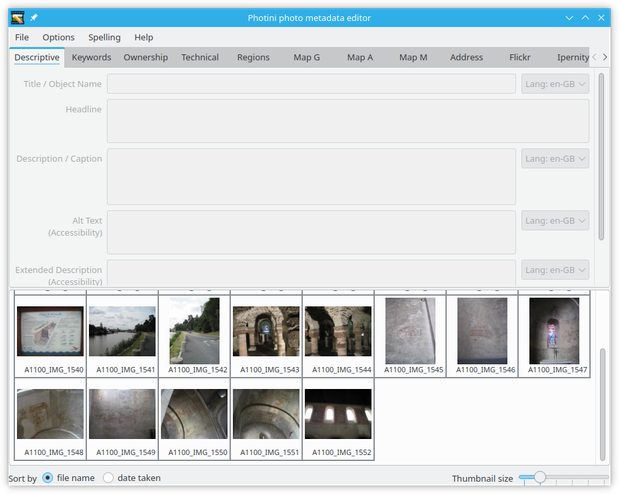
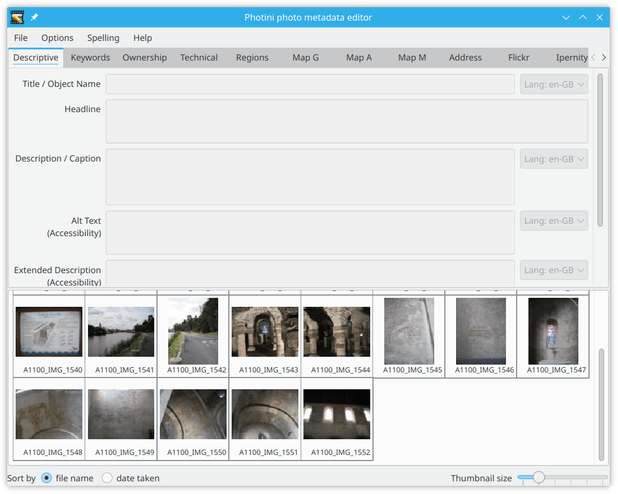
Updated screen shots and documentation

diff --git a/src/doc/manual/descriptive_metadata.rst b/src/doc/manual/descriptive_metadata.rst
@@ -9,7 +9,7 @@ The ``Descriptive metadata`` tab (keyboard shortcut ``Alt+D``) allows you to edi
 
 .. image:: ../images/screenshot_020.png
 
-The data form is disabled until you select one or more images to edit.
+The data form is mostly disabled until you select one or more images to edit.
 
 .. image:: ../images/screenshot_021.png
 
@@ -94,27 +94,30 @@ This allows translations into alternative languages to be stored along with the 
 .. image:: ../images/screenshot_032.png
 
 Photini has a language drop down selector next to each ``Lang Alt`` data field.
-If the current text is in an unspecified default language the selector shows ``Language``, otherwise it shows ``Lang:`` and the current language.
-If the field is empty the current language is set to your computer's default locale.
-You can add an alternative language by clicking on the drop down and selecting ``<new>``.
-
-.. image:: ../images/screenshot_033.png
-
-If there is already some text in an unspecified default language you will be asked to say what that language is.
+If the current text is in an unspecified language the selector shows ``Language``, otherwise it shows ``Lang:`` and the current language.
 Languages are specified with an RFC3066_ code.
-This usually starts with a two-letter language code, e.g. ``en`` for English, and may be followed by a hyphen and a two-letter country code, e.g. ``en-GB`` for English as spoken in Great Britain.
+This usually starts with a two-letter language code, e.g. ``en`` for English, and may be followed by a hyphen and a two-letter country code, e.g. ``en-GB`` for English as used in Great Britain.
+You can add another language by clicking on the drop down and selecting ``<new>``.
 
 .. image:: ../images/screenshot_034.png
 
-Next you can set the language to be added, e.g. ``fr-FR`` for French as spoken in France.
+Next you can set the language to be added, e.g. ``fr-FR`` for French as used in France.
 
 .. image:: ../images/screenshot_035.png
 
 You can then type the translation in to the text field.
 
+.. image:: ../images/screenshot_033.png
+
+You can change the language of some existing text by right-clicking on it to bring up the context menu.
+This has options to change the language to your computer's default or to any other language.
+
 .. image:: ../images/screenshot_036.png
 
-If you would like to change the default language, right-click on the ``Lang:`` dropdown and choose a language.
+When there is more than one language to choose from you can make one language the default with the right-click context menu.
+Photini shows the default language first in the language drop down selector.
+
+When a ``Lang Alt`` data field has multiple values, you can use the drop down selector to select each language in turn before right-clicking on the text to choose one of the values.
 
 More information about the data fields
 --------------------------------------
